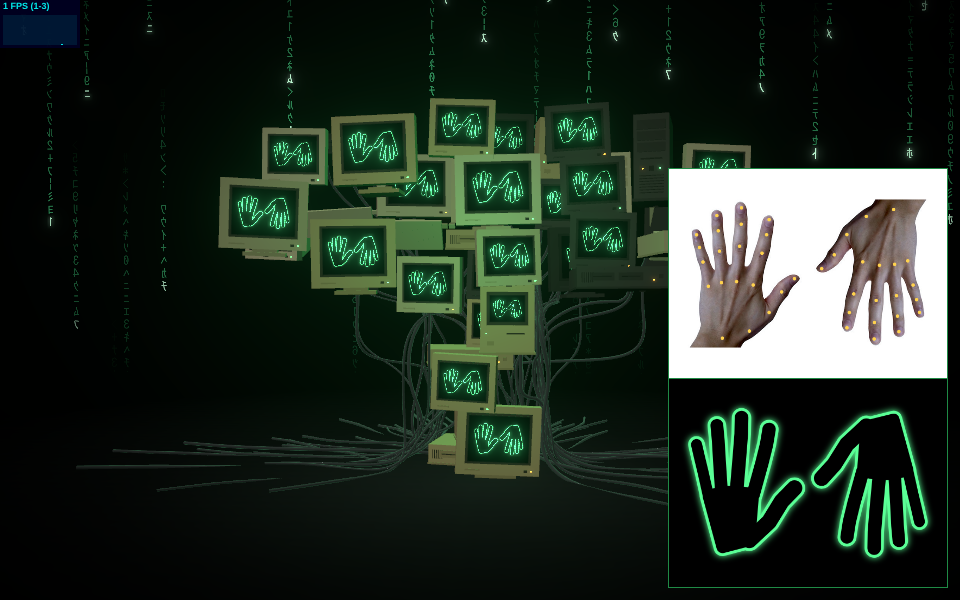
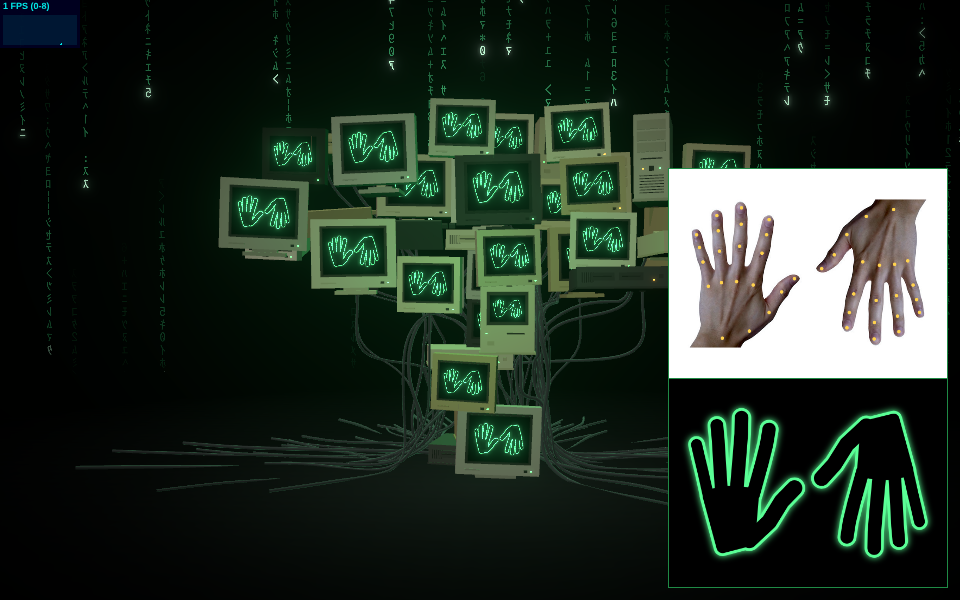
Give every computer its own period plastic, scattered dark ones
Each unit flipped an independent 38% coin for black plastic from its
layout seed, so dark units clumped by chance and the default tree always
showed the same clump. Colours now come from their own RNG: a table of
period plastics, a small hue and lightness jitter, age yellowing on light
plastic, and about a fifth of the units dark, spread evenly over the
tree's quadrants with a minimum spacing. Without ?seed= every load
repaints the tree; with it the colours repeat, and verify always sets it.

tests/finishes.test.ts checks distinct shades, the dark share and that no
half of the tree holds a disproportionate share of the dark units. The
colors-reload verify scenario checks two plain loads differ and two seeded
loads match.

Claude-Session: https://claude.ai/code/session_01Jx9jzH1muFp5iQmedXmqrq

diff --git a/src/scene/finishes.ts b/src/scene/finishes.ts
@@ -1,0 +1,100 @@
+import { Color } from 'three';
+import { UNITS } from './computers';
+import type { Layout } from './layout';
+import { range, type Rng } from './rng';
+
+/** The colours one unit is built from: housing, trim, and the near-black of bezels, slots and sockets. */
+export type Finish = { readonly shell: string; readonly trim: string; readonly dark: string };
+
+type Plastic = { readonly tone: 'light' | 'dark'; readonly shell: string; readonly trim: string; readonly dark: string };
+
+/** Period housings. */
+const PLASTICS: readonly Plastic[] = [
+  { tone: 'light', shell: '#d6ceb5', trim: '#c2b99c', dark: '#34312b' },
+  { tone: 'light', shell: '#cdc3a6', trim: '#b8ad8f', dark: '#3a372f' },
+  { tone: 'light', shell: '#e3ddc9', trim: '#cfc8b0', dark: '#36342e' },
+  { tone: 'light', shell: '#c4b48a', trim: '#ad9e76', dark: '#38342a' },
+  { tone: 'light', shell: '#e4e2da', trim: '#cfcdc4', dark: '#2f2f2c' },
+  { tone: 'light', shell: '#bfc0bb', trim: '#a8a9a3', dark: '#2b2c2b' },
+  { tone: 'dark', shell: '#28282a', trim: '#333336', dark: '#0c0c0d' },
+  { tone: 'dark', shell: '#3a3b3e', trim: '#2a2b2d', dark: '#101011' },
+];
+
+const FINISHES = {
+  /** Share of units in dark plastic, drawn per tree. */
+  darkShare: [0.17, 0.23] as const,
+  /** Dark units start this far apart (as a share of the spacing an even spread would give) and close in only if they must. */
+  spread: 0.75,
+  hueJitter: 0.01,
+  lightJitter: 0.035,
+  /** Light plastic yellows toward this with age; at most this share of the way. */
+  aged: '#d8c27e',
+  maxAge: 0.4,
+};
+
+const LIGHT = PLASTICS.filter((p) => p.tone === 'light');
+const DARK = PLASTICS.filter((p) => p.tone === 'dark');
+
+/**
+ * Picks which units are dark so they scatter instead of clumping: each quadrant of the tree's front view
+ * gets an equal share, and within that, picks keep a minimum spacing that shrinks only if it must.
+ */
+function scatterDark(centres: readonly (readonly [number, number, number])[], count: number, rng: Rng, width: number, height: number): Set<number> {
+  const shuffle = <T,>(items: T[]) => {
+    for (let i = items.length - 1; i > 0; i--) {
+      const j = Math.floor(rng() * (i + 1));
+      [items[i], items[j]] = [items[j]!, items[i]!];
+    }
+    return items;
+  };
+  const ys = centres.map((c) => c[1]).sort((a, b) => a - b);
+  const midY = ys[Math.floor(ys.length / 2)] ?? 0;
+  const quadrant = ([x, y]: readonly [number, number, number]) => (x < 0 ? 0 : 1) + (y < midY ? 0 : 2);
+  const sizes = [0, 0, 0, 0];
+  for (const c of centres) sizes[quadrant(c)]! += 1;
+  const quota = sizes.map((size) => Math.min(size, Math.floor(count / 4)));
+  for (const q of shuffle([0, 1, 2, 3]).slice(0, count % 4)) if (quota[q]! < sizes[q]!) quota[q]! += 1;
+  const target = quota.reduce((a, b) => a + b, 0);
+
+  const order = shuffle(centres.map((_, i) => i));
+  const dark = new Set<number>();
+  let spacing = Math.sqrt((width * height) / Math.max(1, count)) * FINISHES.spread;
+  while (dark.size < target) {
+    for (const i of order) {
+      const c = centres[i]!;
+      const q = quadrant(c);
+      if (dark.has(i) || quota[q] === 0) continue;
+      if (![...dark].every((j) => Math.hypot(c[0] - centres[j]![0], c[1] - centres[j]![1], c[2] - centres[j]![2]) >= spacing)) continue;
+      dark.add(i);
+      quota[q]! -= 1;
+    }
+    spacing *= 0.85;
+  }
+  return dark;
+}
+
+const aged = new Color(FINISHES.aged);
+
+function tint(hex: string, age: number, hue: number, light: number): string {
+  return `#${new Color(hex).lerp(aged, age).offsetHSL(hue, 0, light).getHexString()}`;
+}
+
+/** One finish per placement. Draws only from `rng`, so a separate stream can vary colours without moving the layout. */
+export function assignFinishes(layout: Layout, rng: Rng): Finish[] {
+  const { placements } = layout;
+  const centres = placements.map((p): [number, number, number] => [p.position[0], p.position[1] + UNITS[p.kind].size[1] / 2, p.position[2]]);
+  const count = Math.round(placements.length * range(rng, ...FINISHES.darkShare));
+  const dark = scatterDark(centres, count, rng, layout.width, layout.height);
+  return placements.map((_, i) => {
+    const pool = dark.has(i) ? DARK : LIGHT;
+    const plastic = pool[Math.floor(rng() * pool.length)]!;
+    const age = plastic.tone === 'light' ? FINISHES.maxAge * rng() ** 2 : 0;
+    const hue = range(rng, -FINISHES.hueJitter, FINISHES.hueJitter);
+    const light = range(rng, -FINISHES.lightJitter, FINISHES.lightJitter);
+    return {
+      shell: tint(plastic.shell, age, hue, light),
+      trim: tint(plastic.trim, age, hue, light),
+      dark: tint(plastic.dark, 0, 0, light * 0.3),
+    };
+  });
+}

diff --git a/src/scene/computers.ts b/src/scene/computers.ts
@@ -1,5 +1,6 @@
 import { Matrix4 } from 'three';
 import { range, type Rng } from './rng';
+import type { Finish } from './finishes';
 import type { PartBuilder, Vec3 } from './partBuilder';
 
 export type UnitKind = 'crtLarge' | 'crtSmall' | 'terminal' | 'desktop' | 'tower' | 'keyboard';
@@ -25,24 +26,7 @@ export type UnitSpec = {
   readonly weight: number;
   readonly screen?: ScreenSpec;
   readonly ports: readonly Port[];
-  build(b: PartBuilder, rng: Rng): void;
-};
-
-type Palette = { shell: string; trim: string; dark: string };
-
-const BEIGE: readonly Palette[] = [
-  { shell: '#cdc3a6', trim: '#b8ad8f', dark: '#3a372f' },
-  { shell: '#d6ceb5', trim: '#c2b99c', dark: '#34312b' },
-  { shell: '#c4b48a', trim: '#ad9e76', dark: '#38342a' },
-];
-const BLACK: readonly Palette[] = [
-  { shell: '#232325', trim: '#2e2e31', dark: '#0c0c0d' },
-  { shell: '#3a3b3d', trim: '#2a2b2d', dark: '#101011' },
-];
-
-const pickPalette = (rng: Rng): Palette => {
-  const pool = rng() < 0.62 ? BEIGE : BLACK;
-  return pool[Math.floor(rng() * pool.length)]!;
+  build(b: PartBuilder, rng: Rng, p: Finish): void;
 };
 
 const LED_GREEN = [0.5, 3.2, 0.9] as const;
@@ -68,8 +52,7 @@ function crt({ w, h, d, stand, screenW }: CrtParams): UnitSpec {
       // Under the stand, or under the bezel when there is none: the only parts that reach y = 0.
       { face: 'under', at: [0, 0, stand > 0 ? -d * 0.12 : d * 0.4] },
     ],
-    build(b, rng) {
-      const p = pickPalette(rng);
+    build(b, rng, p) {
       if (stand > 0) {
         b.box([w * 0.5, stand * 0.55, d * 0.5], [0, stand * 0.275, 0], p.trim);
         b.box([w * 0.3, stand * 0.5, d * 0.3], [0, stand * 0.75, 0], p.trim);
@@ -96,8 +79,7 @@ const terminal: UnitSpec = {
     { face: 'back', at: [0.14, 0.42, -0.45] },
     { face: 'under', at: [0.2, 0, 0.1] },
   ],
-  build(b, rng) {
-    const p = pickPalette(rng);
+  build(b, _rng, p) {
     b.box([0.78, 1.0, 0.62], [0, 0.5, 0.14], p.shell);
     b.taper([0.74, 0.92, 0.28], [0, 0.52, -0.31], [0.8, 0.85], p.trim);
     b.box([0.6, 0.48, 0.03], [0, 0.66, 0.46], p.dark);
@@ -118,8 +100,7 @@ const desktop: UnitSpec = {
     { face: 'back', at: [0.38, 0.17, -0.55] },
     { face: 'under', at: [0.4, 0, -0.2] },
   ],
-  build(b, rng) {
-    const p = pickPalette(rng);
+  build(b, rng, p) {
     b.box([1.3, 0.3, 1.08], [0, 0.16, 0], p.shell);
     b.box([1.32, 0.03, 1.1], [0, 0.015, 0], p.trim);
     for (const x of [-0.3, 0.1]) {
@@ -140,8 +121,7 @@ const tower: UnitSpec = {
     { face: 'back', at: [0, 0.7, -0.525] },
     { face: 'under', at: [0, 0, -0.3] },
   ],
-  build(b, rng) {
-    const p = pickPalette(rng);
+  build(b, _rng, p) {
     b.box([0.5, 1.22, 1.03], [0, 0.62, 0], p.shell);
     b.box([0.54, 0.04, 1.05], [0, 0.02, 0], p.trim);
     for (let i = 0; i < 3; i++) b.box([0.4, 0.13, 0.02], [0, 1.08 - i * 0.16, 0.522], p.trim);
@@ -160,8 +140,7 @@ const keyboard: UnitSpec = {
   size: [1.2, 0.46, 0.5],
   weight: 0,
   ports: [],
-  build(b, rng) {
-    const p = pickPalette(rng);
+  build(b, rng, p) {
     const lean = new Matrix4().makeTranslation(0, 0.02, 0.1).multiply(new Matrix4().makeRotationX(KEYBOARD_TILT));
     b.group(lean, () => {
       b.box([1.2, 0.05, 0.45], [0, 0.025, -0.225], p.shell);

diff --git a/tests/finishes.test.ts b/tests/finishes.test.ts
@@ -1,0 +1,70 @@
+import assert from 'node:assert/strict';
+import { test } from 'node:test';
+import { QUALITY } from '../src/quality.ts';
+import { assignFinishes, type Finish } from '../src/scene/finishes.ts';
+import { createLayout, type Layout } from '../src/scene/layout.ts';
+import { mulberry32 } from '../src/scene/rng.ts';
+
+const LAYOUT_SEEDS = [1987, 42, 31337];
+const COLOR_SEEDS = Array.from({ length: 25 }, (_, i) => 1000 + i * 7919);
+
+/** WCAG relative luminance of a `#rrggbb` colour. */
+function luminance(hex: string): number {
+  const [r, g, b] = [1, 3, 5].map((i) => {
+    const c = parseInt(hex.slice(i, i + 2), 16) / 255;
+    return c <= 0.04045 ? c / 12.92 : ((c + 0.055) / 1.055) ** 2.4;
+  });
+  return 0.2126 * r! + 0.7152 * g! + 0.0722 * b!;
+}
+
+const isDark = (f: Finish) => luminance(f.shell) < 0.15;
+const share = (finishes: Finish[], pick: (i: number) => boolean) => {
+  const ids = finishes.map((_, i) => i).filter(pick);
+  return ids.filter((i) => isDark(finishes[i]!)).length / ids.length;
+};
+
+function halves(layout: Layout) {
+  const ys = layout.placements.map((p) => p.position[1]).sort((a, b) => a - b);
+  const midY = ys[Math.floor(ys.length / 2)]!;
+  const at = (i: number) => layout.placements[i]!.position;
+  return {
+    left: (i: number) => at(i)[0] < 0,
+    right: (i: number) => at(i)[0] >= 0,
+    bottom: (i: number) => at(i)[1] < midY,
+    top: (i: number) => at(i)[1] >= midY,
+  };
+}
+
+for (const tier of ['desktop', 'mobile'] as const) {
+  for (const layoutSeed of LAYOUT_SEEDS) {
+    const quality = QUALITY[tier];
+    const layout = createLayout(quality.units, quality.tree, layoutSeed);
+
+    test(`${tier} layout ${layoutSeed}: every unit gets its own shade, 15-25% dark, scattered across the tree`, () => {
+      const problems: string[] = [];
+      for (const colorSeed of COLOR_SEEDS) {
+        const finishes = assignFinishes(layout, mulberry32(colorSeed));
+        assert.equal(finishes.length, layout.placements.length);
+        const distinct = new Set(finishes.map((f) => f.shell)).size;
+        if (distinct < finishes.length * 0.8) problems.push(`${colorSeed}: only ${distinct} distinct shells`);
+        const overall = share(finishes, () => true);
+        if (overall < 0.15 || overall > 0.25) problems.push(`${colorSeed}: dark share ${overall.toFixed(2)}`);
+        for (const [name, pick] of Object.entries(halves(layout))) {
+          const s = share(finishes, pick);
+          if (Math.abs(s - overall) > 0.15) problems.push(`${colorSeed}: ${name} half dark share ${s.toFixed(2)} vs ${overall.toFixed(2)}`);
+        }
+      }
+      assert.deepEqual(problems, []);
+    });
+  }
+}
+
+test('the same colour seed repeats its colours and another seed repaints them, without moving any unit', () => {
+  const quality = QUALITY.desktop;
+  const layout = createLayout(quality.units, quality.tree, 1987);
+  const a = assignFinishes(layout, mulberry32(5));
+  assert.deepEqual(assignFinishes(layout, mulberry32(5)), a);
+  const b = assignFinishes(layout, mulberry32(6));
+  assert.ok(b.filter((f, i) => f.shell !== a[i]!.shell).length > a.length * 0.8);
+  assert.deepEqual(createLayout(quality.units, quality.tree, 1987), layout);
+});

diff --git a/src/scene/Cluster.tsx b/src/scene/Cluster.tsx
@@ -15,6 +15,7 @@ import { mergeGeometries } from 'three/examples/jsm/utils/BufferGeometryUtils.js
 import { screenModifier } from '../screen/modifiers';
 import { applyModification, createScreenMaterial } from '../screen/screenMaterial';
 import { PORT_FACES, UNITS } from './computers';
+import type { Finish } from './finishes';
 import type { Layout } from './layout';
 import { createPartBuilder } from './partBuilder';
 import { mulberry32 } from './rng';
@@ -26,10 +27,10 @@ type Screen = { matrix: Matrix4; geometry: PlaneGeometry; material: ShaderMateri
 const bodyMaterial = new MeshStandardMaterial({ vertexColors: true, roughness: 0.78, metalness: 0.05 });
 const glowMaterial = new MeshBasicMaterial({ vertexColors: true, toneMapped: false });
 
-function buildCluster(layout: Layout, hand: Texture) {
+function buildCluster(layout: Layout, finishes: readonly Finish[], hand: Texture) {
   const b = createPartBuilder();
   const screens: Screen[] = [];
-  for (const p of layout.placements) {
+  layout.placements.forEach((p, i) => {
     const spec = UNITS[p.kind];
     const unit = new Matrix4().compose(
       new Vector3(...p.position),
@@ -37,7 +38,7 @@ function buildCluster(layout: Layout, hand: Texture) {
       new Vector3(1, 1, 1),
     );
     b.group(unit, () => {
-      spec.build(b, mulberry32(p.seed));
+      spec.build(b, mulberry32(p.seed), finishes[i]!);
       for (const port of spec.ports) b.box(PORT_FACES[port.face].socket, port.at, SOCKET);
     });
     if (spec.screen) {
@@ -48,12 +49,12 @@ function buildCluster(layout: Layout, hand: Texture) {
         material: createScreenMaterial(hand, (p.seed % 1000) / 1000),
       });
     }
-  }
+  });
   return { body: mergeGeometries(b.solid), glow: mergeGeometries(b.glowing), screens };
 }
 
-export function Cluster({ layout, hand }: { layout: Layout; hand: Texture }) {
-  const { body, glow, screens } = useMemo(() => buildCluster(layout, hand), [layout, hand]);
+export function Cluster({ layout, finishes, hand }: { layout: Layout; finishes: readonly Finish[]; hand: Texture }) {
+  const { body, glow, screens } = useMemo(() => buildCluster(layout, finishes, hand), [layout, finishes, hand]);
   useFrame(({ clock }) => {
     const t = clock.elapsedTime;
     screens.forEach((s, i) => applyModification(s.material, screenModifier(i, t), t));

diff --git a/src/scene/Scene.tsx b/src/scene/Scene.tsx
@@ -13,13 +13,23 @@ import type { Flow } from './flow';
 import { HandFrameReader } from './HandFrameReader';
 import { Effects } from './Effects';
 import { Floor } from './Floor';
+import { assignFinishes } from './finishes';
 import { createLayout } from './layout';
 import { MatrixRain } from './MatrixRain';
+import { mulberry32 } from './rng';
 
-type Props = { tracker: HandTracker; hand: HandTexture; quality: Quality; seed: number };
+type Props = {
+  tracker: HandTracker;
+  hand: HandTexture;
+  quality: Quality;
+  seed: number;
+  /** Separate from `seed`, so the colours can change without moving any unit. */
+  colorSeed: number;
+};
 
-export function Scene({ tracker, hand, quality, seed }: Props) {
+export function Scene({ tracker, hand, quality, seed, colorSeed }: Props) {
   const layout = useMemo(() => createLayout(quality.units, quality.tree, seed), [quality, seed]);
+  const finishes = useMemo(() => assignFinishes(layout, mulberry32(colorSeed)), [layout, colorSeed]);
   const flow = useMemo<Flow>(() => ({ motion: 0 }), []);
   const setDpr = useThree((s) => s.setDpr);
   const [minDpr, maxDpr] = quality.dpr;
@@ -39,7 +49,7 @@ export function Scene({ tracker, hand, quality, seed }: Props) {
       <directionalLight position={[-5, 9, 8]} intensity={1.1} color="#fff1dc" />
       <directionalLight position={[2, 6, -8]} intensity={1.6} color="#3dff7a" />
       <pointLight position={[0, layout.height * 0.6, 3]} intensity={6} distance={14} color="#4dff88" />
-      <Cluster layout={layout} hand={hand.texture} />
+      <Cluster layout={layout} finishes={finishes} hand={hand.texture} />
       <Cables layout={layout} count={quality.cables} flow={flow} />
       <MatrixRain width={70} height={44} z={-14} />
       <Floor radius={Math.max(layout.width, layout.height) * 2.5} />

diff --git a/src/App.tsx b/src/App.tsx
@@ -15,8 +15,11 @@ const QUALITY_NOW = QUALITY[TIER];
 const tracker = createHandTracker(QUALITY_NOW.detectHz);
 const hand = createHandTexture(QUALITY_NOW.handTexSize);
 const DEFAULT_SEED = 1987;
-const SEED = Number(new URLSearchParams(window.location.search).get('seed')) || DEFAULT_SEED;
-reportDebug({ tier: TIER });
+const PARAMS = new URLSearchParams(window.location.search);
+const SEED = Number(PARAMS.get('seed')) || DEFAULT_SEED;
+/** With ?seed= the colours repeat, for reproducible screenshots; without it every load repaints the tree. */
+const COLOR_SEED = PARAMS.has('seed') ? (SEED ^ 0x5bd1e995) >>> 0 : Math.floor(Math.random() * 2 ** 31);
+reportDebug({ tier: TIER, colorSeed: COLOR_SEED });
 
 export function App() {
   const state = useTrackerState(tracker);
@@ -31,7 +34,7 @@ export function App() {
     <>
       <Canvas dpr={[...QUALITY_NOW.dpr]} camera={{ fov: 40, position: [0, 5, 14] }} gl={{ antialias: true }}>
         <color attach="background" args={['#000']} />
-        <Scene tracker={tracker} hand={hand} quality={QUALITY_NOW} seed={SEED} />
+        <Scene tracker={tracker} hand={hand} quality={QUALITY_NOW} seed={SEED} colorSeed={COLOR_SEED} />
       </Canvas>
       {DEBUG && entered && <DebugVideo tracker={tracker} handCanvas={hand.texture.image as HTMLCanvasElement} />}
       <StartOverlay state={state} onEnter={enter} />

diff --git a/src/debug.ts b/src/debug.ts
@@ -10,6 +10,8 @@ export type DebugStats = {
   framesWithHands: number;
   fps: number;
   tier: string;
+  /** Seeds the unit colours; differs per load unless ?seed= is set. */
+  colorSeed: number;
   motion: number;
   /** In flight right now. */
   pulses: number;
@@ -35,6 +37,7 @@ export function reportDebug(patch: Partial<DebugStats>): void {
       framesWithHands: 0,
       fps: 0,
       tier: '',
+      colorSeed: 0,
       motion: 0,
       pulses: 0,
       pulsesSpawned: 0,
